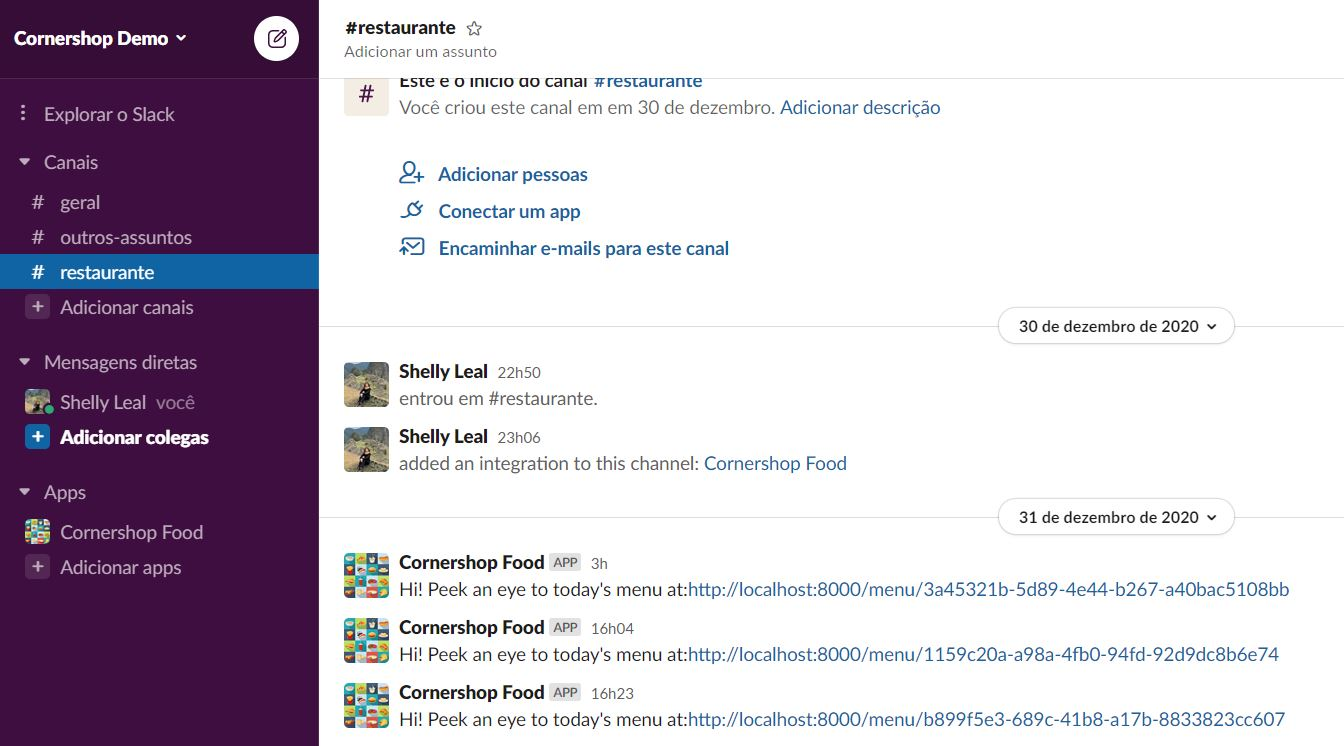
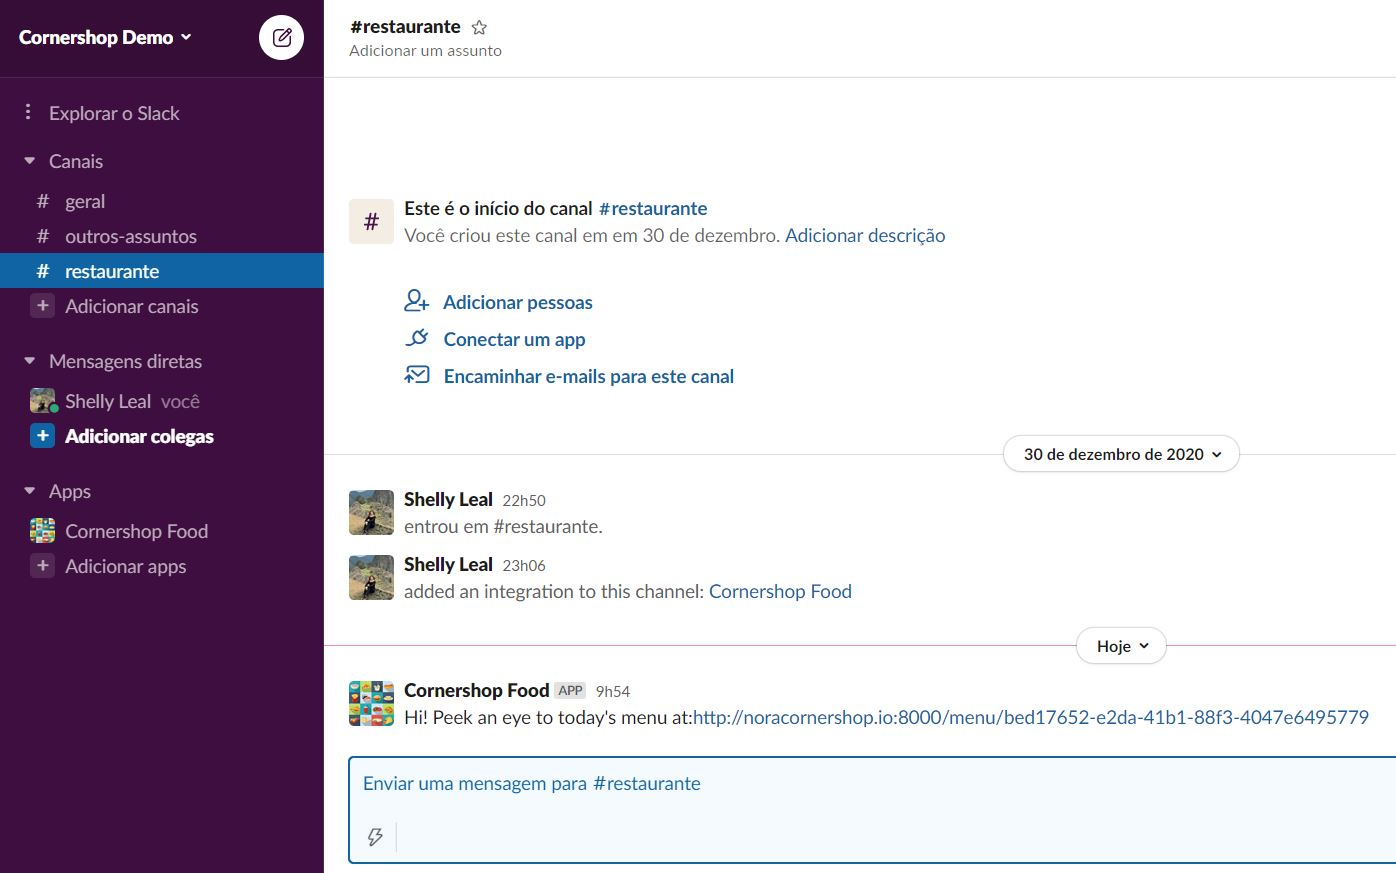
URL fix to noracorneshop.io

diff --git a/main/settings.py b/main/settings.py
@@ -20,8 +20,8 @@ LIMIT_HOUR = HOUR # The limit hour to request the lunch
 # Slack integration credentials
 OAUTH_ACCESS_TOKEN = OAUTH_TOKEN
 CHANNEL = SLACK_CHANNEL
-URL = 'http://localhost:8000/menu/'
-
+#URL = 'http://localhost:8000/menu/'
+URL = 'http://noracornershop.io:8000/menu/'
 # Celery parameters
 CELERY_TIMEZONE = 'America/Sao_Paulo'
 CELERY_BROKER_URL = os.environ.get('CELERY_BROKER', 'pyamqp://guest@localhost//')
